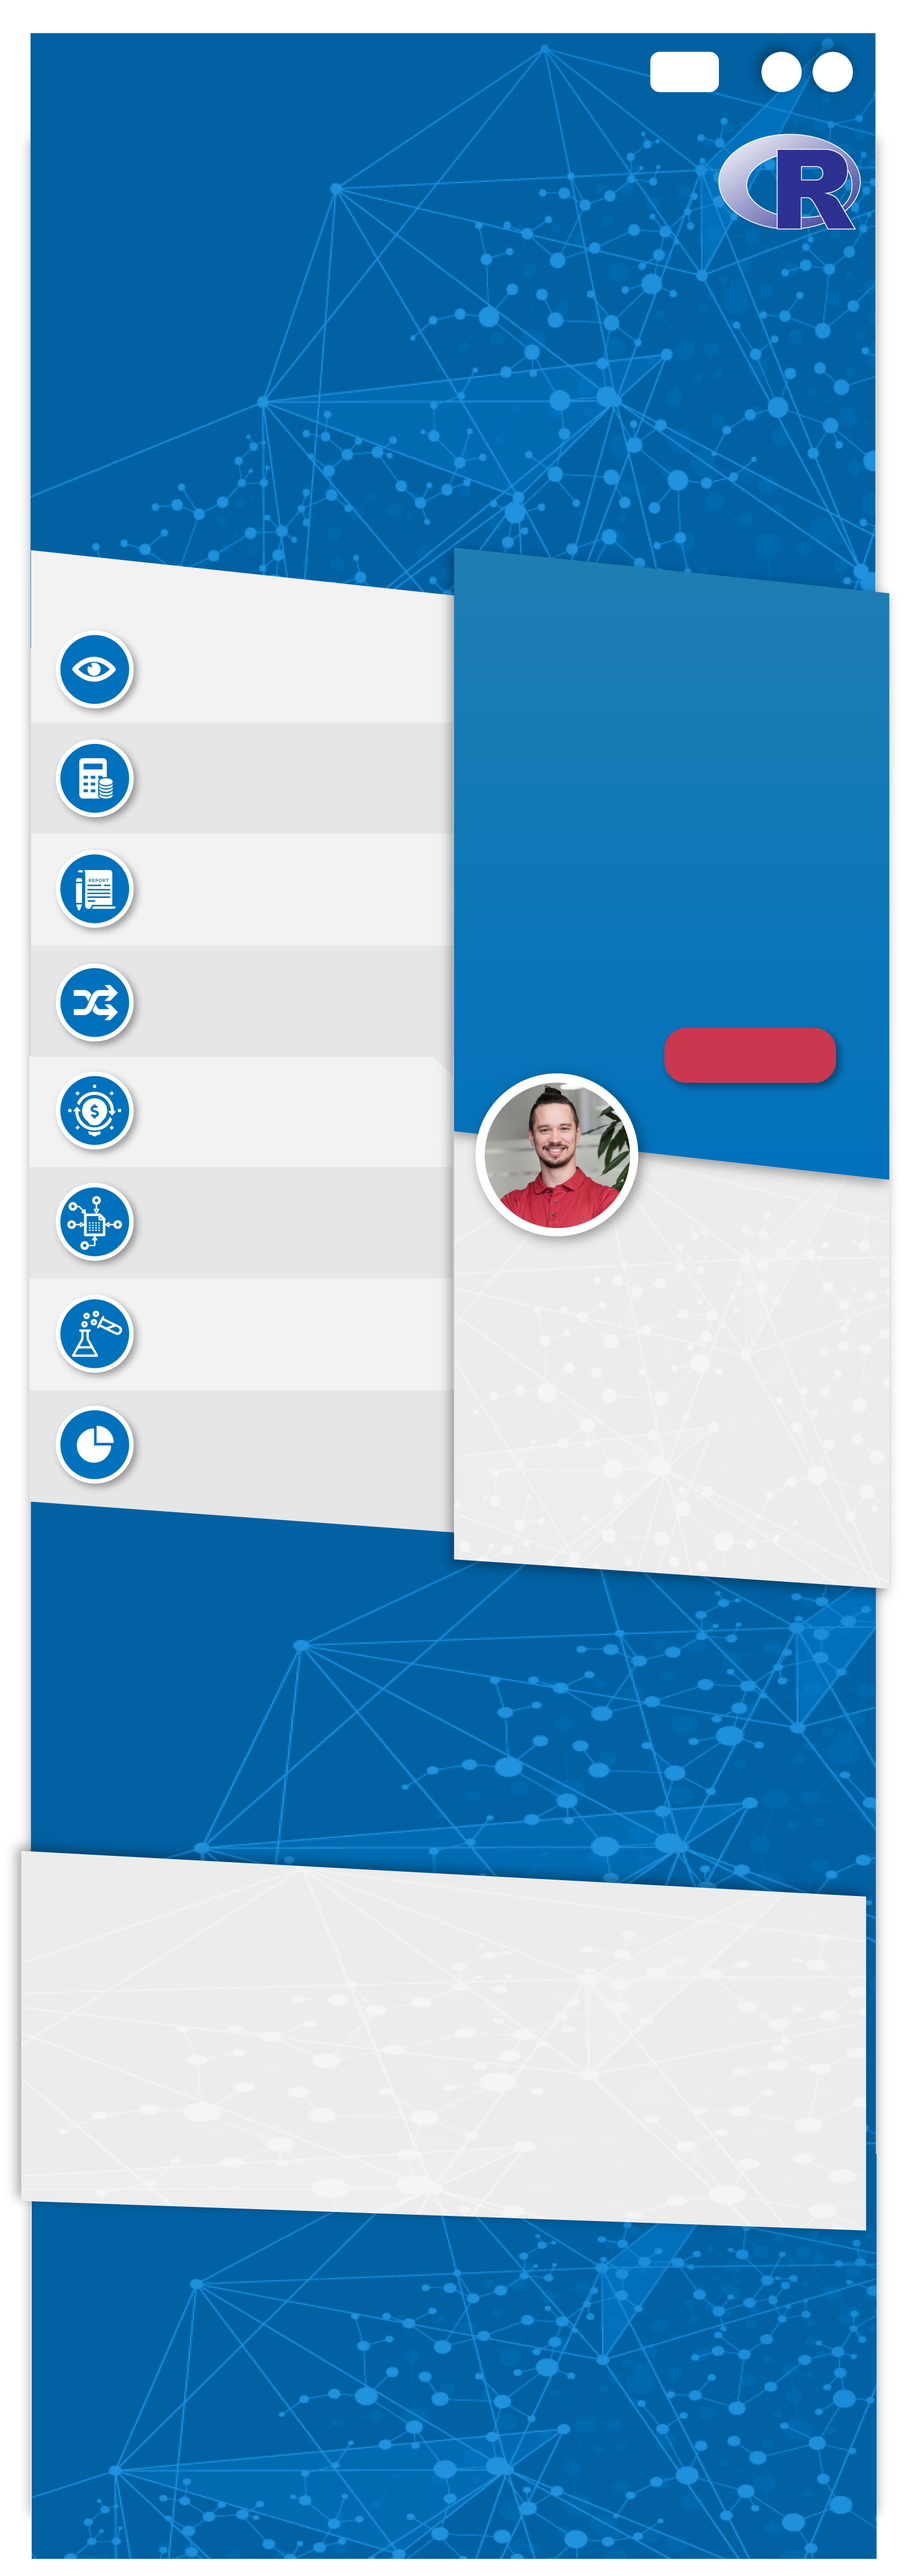
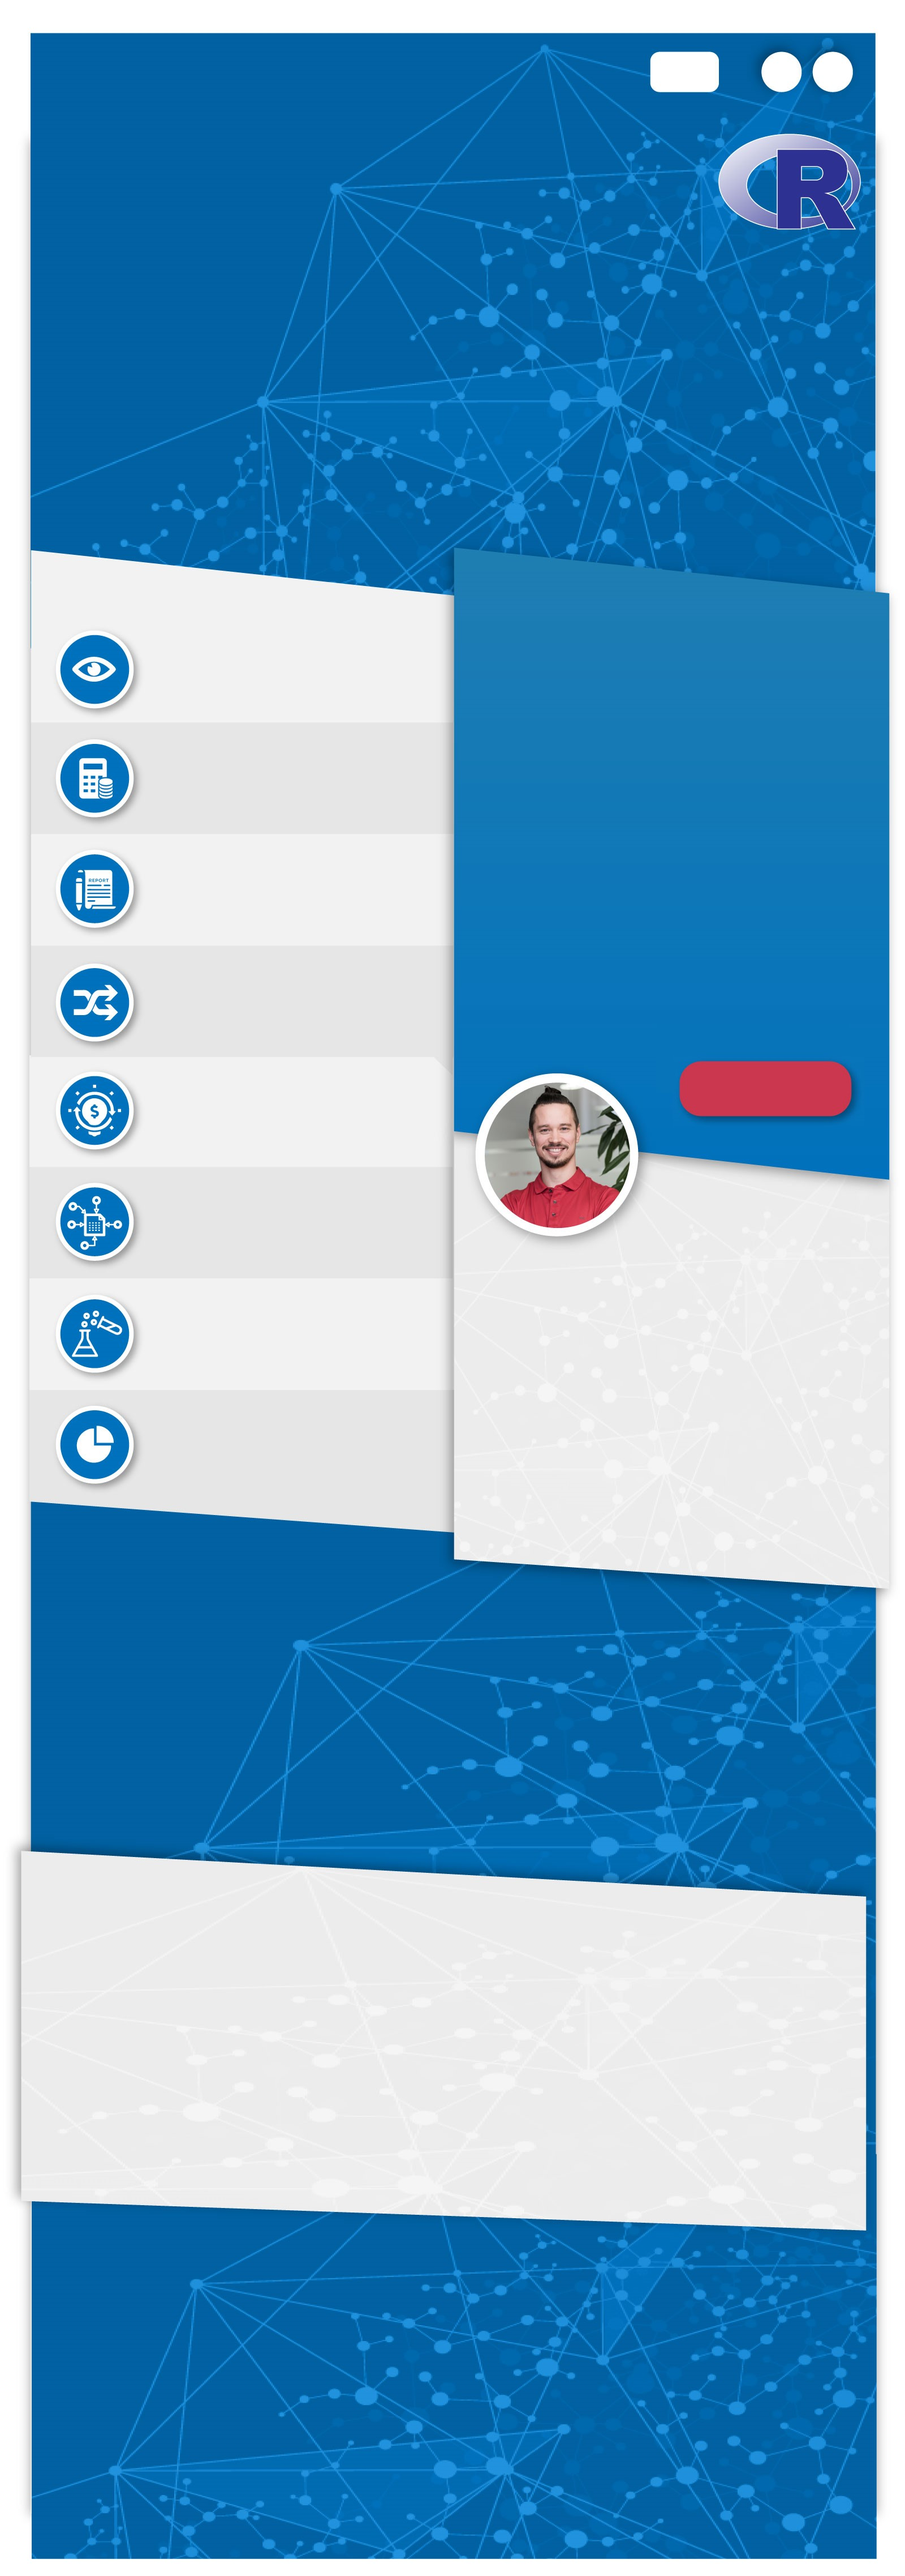
Added "Bring your own laptop".

Changed region(s): [[0.7188, 0.3745, 0.9688, 0.4369]]

diff --git a/static/courses/index.html b/static/courses/index.html
@@ -5,7 +5,7 @@
 		<title>R course: Data driven-decision making and automation</title>
 		<meta charset="UTF-8">
 
-		<!-- Viwport for moblies fix -->
+		<!-- Viewport for moblies fix -->
 		<meta id="testViewport" name=viewport content="width=device-width, initial-scale=1">
 		<script>
 			if (screen.width < 1300) {
@@ -13,7 +13,7 @@
 				mvp.setAttribute('content','width=800');
 			}
 		</script>
-		<!-- Viwport for moblies fix end -->
+		<!-- Viewport for moblies fix end -->
 	  
 		<link href="https://fonts.googleapis.com/css?family=Montserrat&display=swap" rel="stylesheet">
 		<script src="https://cdnjs.cloudflare.com/ajax/libs/modernizr/2.8.3/modernizr.min.js" type="text/javascript"></script>
@@ -244,10 +244,11 @@
 		</div>
 		<div id="g-ai0-11" class="g-Layer_1 g-aiAbs" style="top:27.7079%;left:53.4493%;width:41.375%;">
 			<p class="g-pstyle8"><span class="g-cstyle0">Course format:</span> 3 full days, instructor-led.</p>
-			<p class="g-pstyle8"><span class="g-cstyle0">Practice-theory split: </span>80% practice and 20% theory</p>
-			<p class="g-pstyle9">Size of the group: <span class="g-cstyle1">Up to 10 persons</span></p>
-			<p class="g-pstyle8"><span class="g-cstyle0">Price:	</span>400 EUR</p>
-			<p class="g-pstyle9">Where: <span class="g-cstyle1">Riga, LU House of Science</span></p>
+			<p class="g-pstyle8"><span class="g-cstyle0">Practice-theory split: </span>80% practice and 20% theory.</p>
+			<p class="g-pstyle9">Size of the group: <span class="g-cstyle1">Up to 10 persons.</span></p>
+			<p class="g-pstyle8"><span class="g-cstyle0">Price:	</span>400 EUR.</p>
+			<p class="g-pstyle9">Where: <span class="g-cstyle1">Riga, LU House of Science.</span></p>
+			<p class="g-pstyle9">Equipment: <span class="g-cstyle1">Bring your own laptop.</span></p>
 			<p class="g-pstyle8"><span class="g-cstyle0">Language:</span> English, Latvian or Russian.</p>
 			<p class="g-pstyle8"><span class="g-cstyle0">Prerequisites: </span>Experience in analysing high volumes of data in Excel or any other tool. Prior experience in programming is an advantage, but not essential.</p>
 			<p>&nbsp;</p>
@@ -262,7 +263,7 @@
 		<div id="g-ai0-14" class="g-Layer_1 g-aiAbs" style="top:38.3999%;left:17.806%;width:31.625%;">
 			<p class="g-pstyle7">Estimate uncertainty and distinguish statistically significant effects from random effects.</p>
 		</div>
-		<div id="g-ai0-15" class="g-Layer_1 g-aiAbs g-aiPointText" style="top:41.55%;margin-top:-10.8px;left:76.3477%;width:126px;">
+		<div id="g-ai0-15" class="g-Layer_1 g-aiAbs g-aiPointText" style="top:42.9%;margin-top:-10.8px;left:77.6%;width:126px;">
 			<p class="g-pstyle10"><a href="book.html" target="_blank" style="color:FFFFFF;">Book now</a></p>
 		</div>
 		<div id="g-ai0-16" class="g-Layer_1 g-aiAbs" style="top:42.85%;left:17.806%;width:30.125%;">

diff --git a/static/courses/index_lv.html b/static/courses/index_lv.html
@@ -246,9 +246,10 @@
 			<p class="g-pstyle8"><span class="g-cstyle0">Prakses un teorijas sadalījums: </span>80% prakse un 20% teorija.</p>
 			<p class="g-pstyle9">Grupas lielums: <span class="g-cstyle1">Līdz 10 personām.</span></p>
 			<p class="g-pstyle8"><span class="g-cstyle0">Cena: </span>400 EUR.</p>
-			<p class="g-pstyle9">Kur: <span class="g-cstyle1">Rīga, LU Zinātņu māja</span></p>
+			<p class="g-pstyle9">Kur: <span class="g-cstyle1">Rīga, LU Zinātņu māja.</span></p>
+			<p class="g-pstyle9">Aprīkojums: <span class="g-cstyle1">Paņemiet līdzi klēpjdatoru.</span></p>
 			<p class="g-pstyle8"><span class="g-cstyle0">Valodas: </span> Angļu, latviešu vai krievu.</p>
-			<p class="g-pstyle8"><span class="g-cstyle0">Priekšnoteikumi: </span>Pieredze lielu datu apjomu analīzē ar Excel vai jebkuru citu instrumentu. Iepriekšēja pieredze programmēšanā ir priekšrocība, bet nav obligāta.</p>
+			<p class="g-pstyle8"><span class="g-cstyle0">Priekšnoteikumi: </span>Pieredze lielu datu apjomu analīzē ar Excel vai jebkuru citu instrumentu. Pieredze programmēšanā ir priekšrocība, bet nav obligāta.</p>
 			<p>&nbsp;</p>
 			<p>&nbsp;</p>
 		</div>
@@ -261,7 +262,7 @@
 		<div id="g-ai0-14" class="g-Layer_1 g-aiAbs" style="top:38.3999%;left:17.806%;width:31.625%;">
 			<p class="g-pstyle7">Novērtēt nenoteiktību un atšķirt statistiski nozīmīgus efektus no nejaušiem.</p>
 		</div>
-		<div id="g-ai0-15" class="g-Layer_1 g-aiAbs g-aiPointText" style="top:41.55%;margin-top:-10.8px;left:75.3477%;width:126px;">
+		<div id="g-ai0-15" class="g-Layer_1 g-aiAbs g-aiPointText" style="top:42.9%;margin-top:-10.8px;left:77.2%;width:126px;">
 			<p class="g-pstyle10"><a href="book_lv.html" target="_blank" style="color:FFFFFF;">Reģistrēties</a></p>
 		</div>
 		<div id="g-ai0-16" class="g-Layer_1 g-aiAbs" style="top:42.6%;left:17.806%;width:30.125%;">
